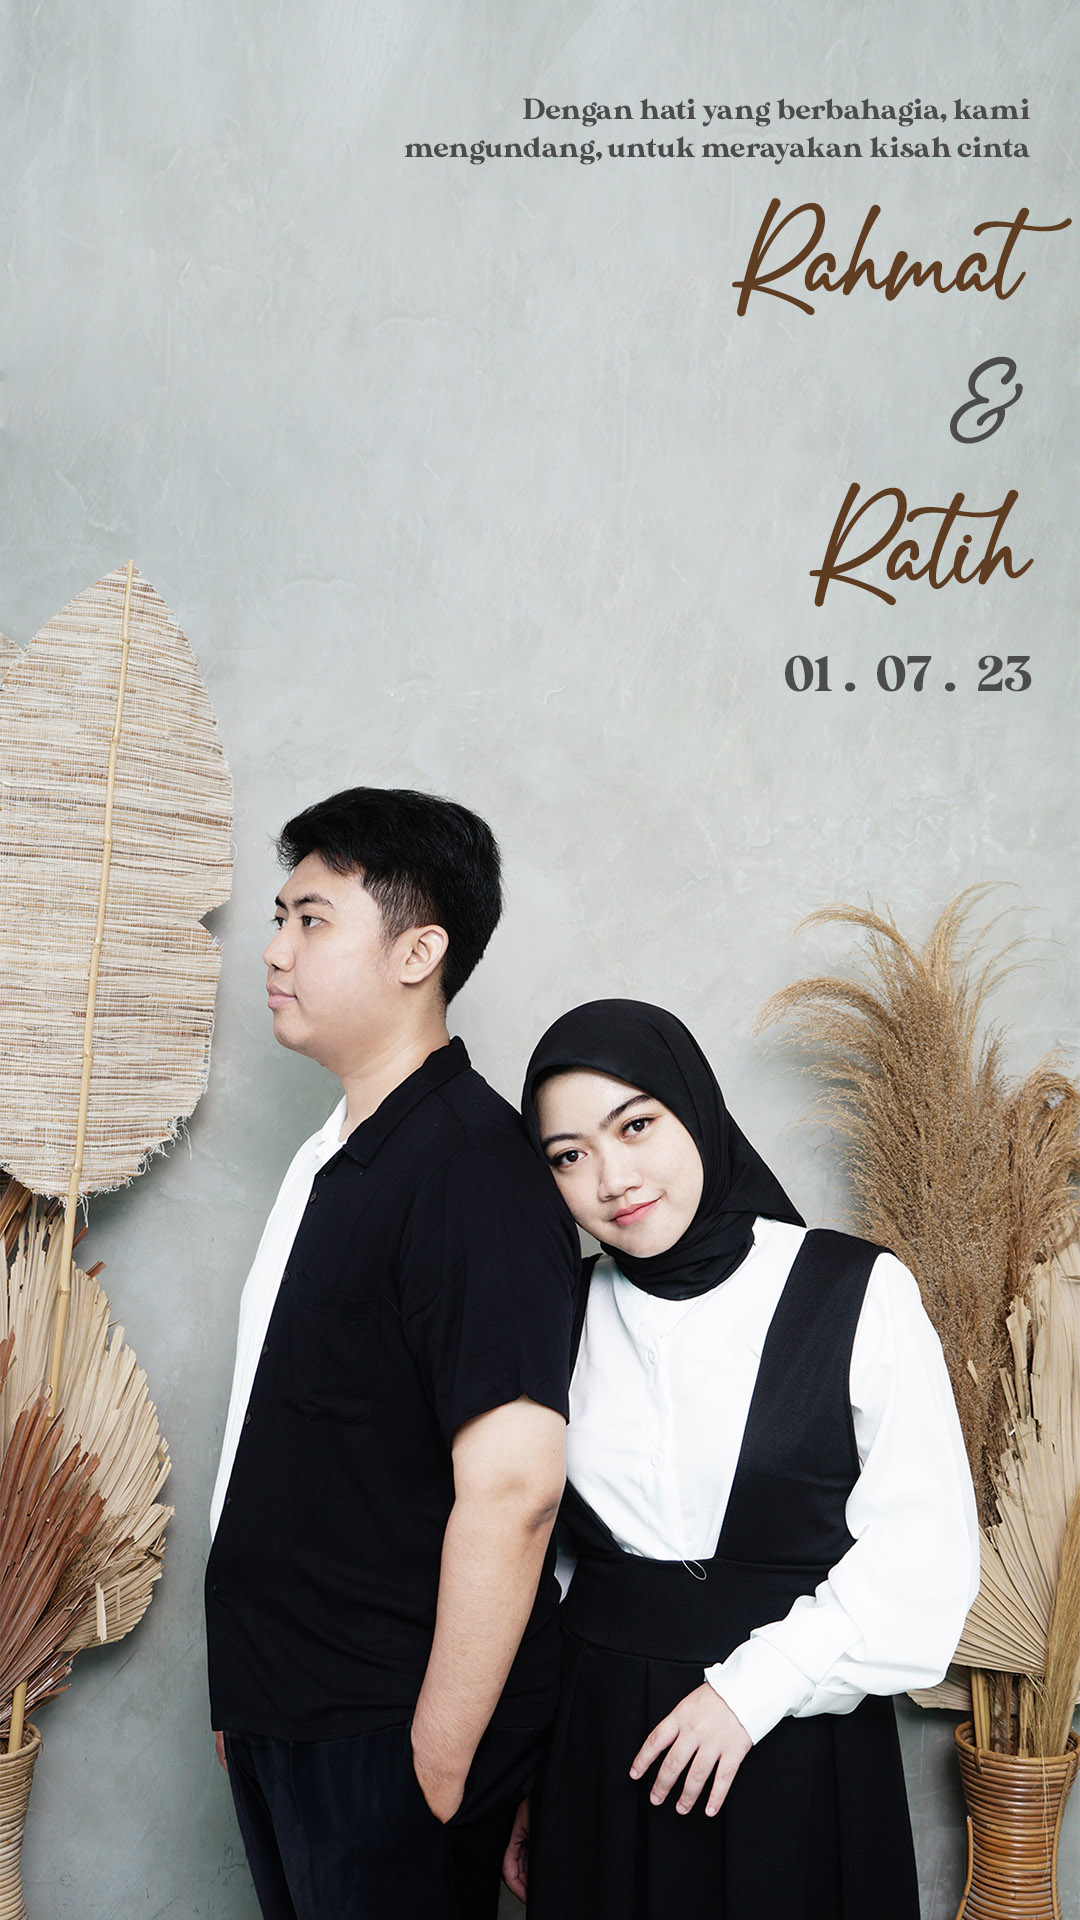
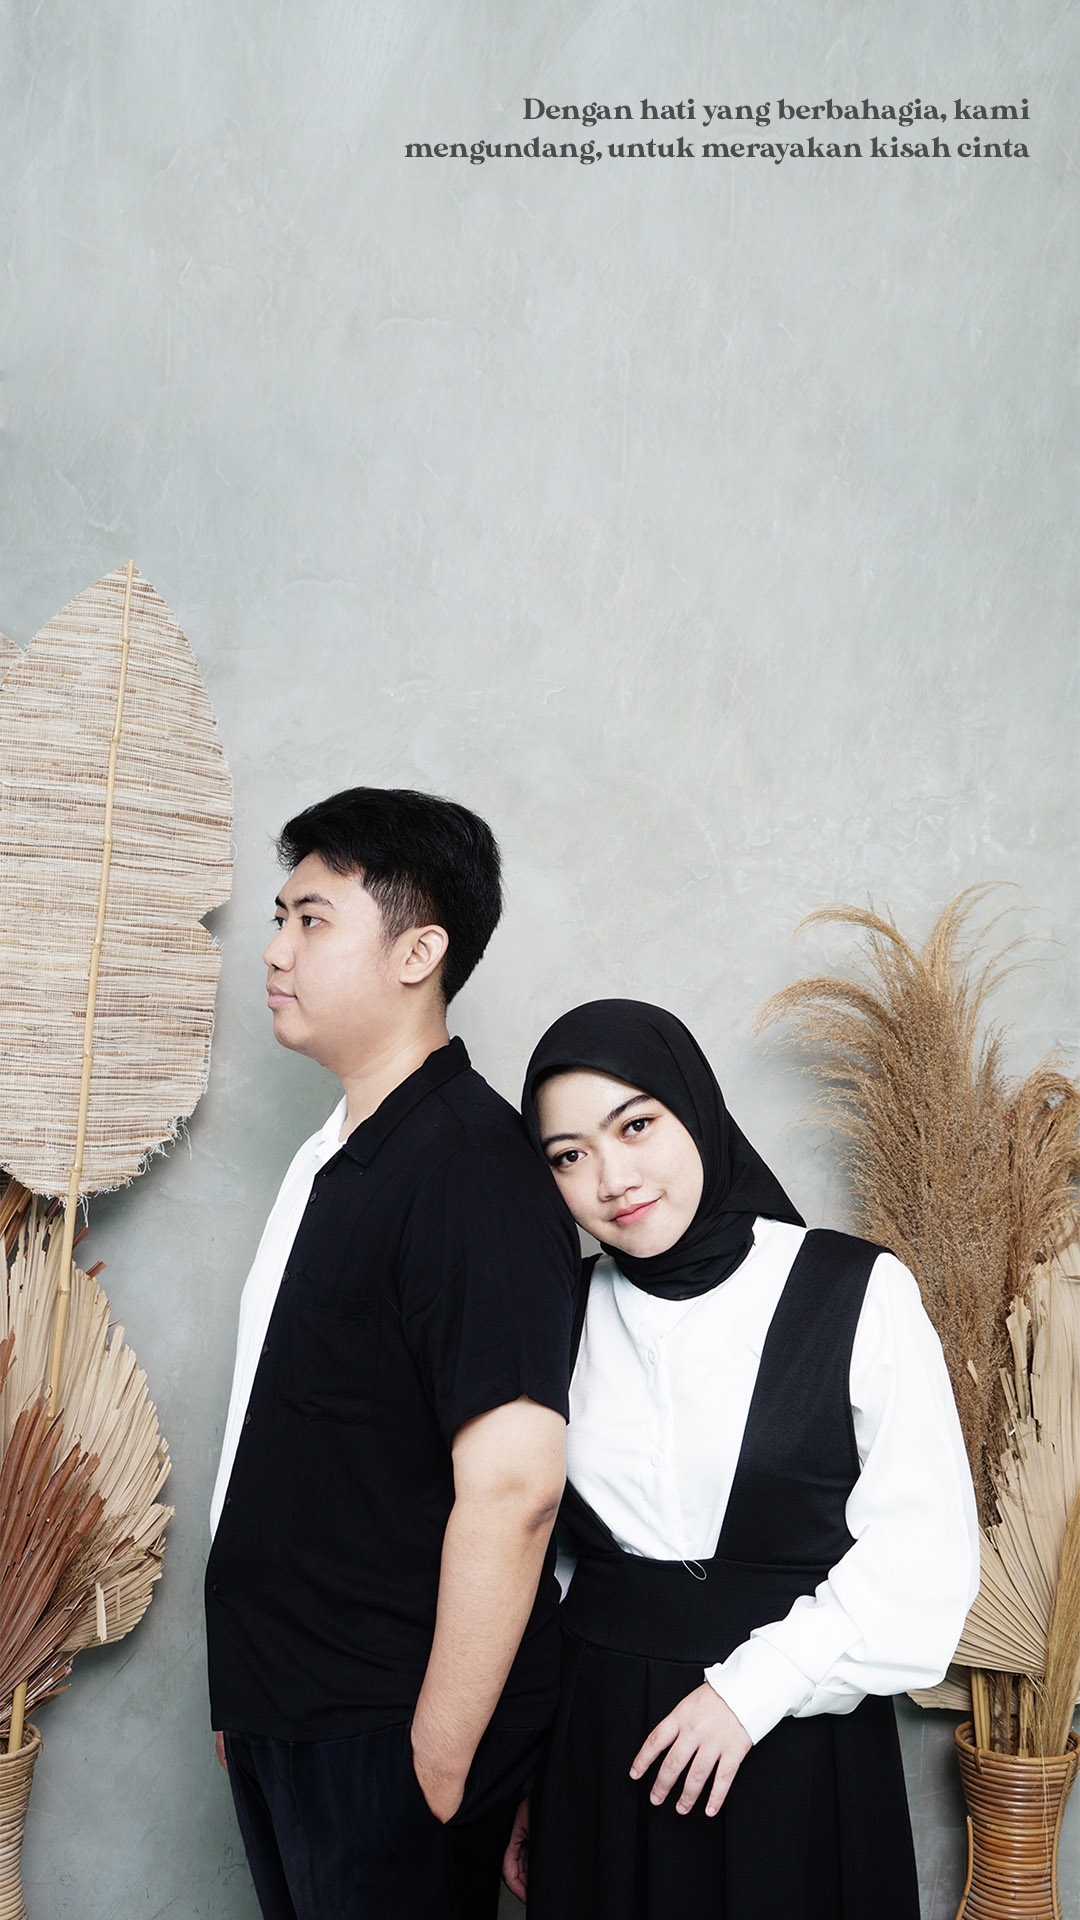
update

diff --git a/index.html b/index.html
@@ -13,7 +13,8 @@
     <link rel="preconnect" href="https://api.rahmatsumantri.my.id/" crossorigin="anonymous">
     <link rel="stylesheet" href="css/normalize.min.css">
     <link rel="stylesheet" href="css/bootstrap.min.css">
-    <link rel="stylesheet" href="fontawesome/css/all.min.css" integrity="sha256-HtsXJanqjKTc8vVQjO4YMhiqFoXkfBsjBWcX91T1jr8=" crossorigin="anonymous">
+    <link rel="stylesheet" href="fontawesome/css/all.min.css"
+        integrity="sha256-HtsXJanqjKTc8vVQjO4YMhiqFoXkfBsjBWcX91T1jr8=" crossorigin="anonymous">
     <link rel="stylesheet" href="css/app.min.css">
     <link rel="stylesheet" href="css/custom.css">
 </head>
@@ -54,16 +55,24 @@
         </ul>
     </nav>
 
-    <main class="scrollspy-example text-light" data-bs-spy="scroll" data-bs-target="#navbar-example2" data-bs-root-margin="0px 0px -40%" data-bs-smooth-scroll="true" tabindex="0">
+    <main class="scrollspy-example text-light" data-bs-spy="scroll" data-bs-target="#navbar-example2"
+        data-bs-root-margin="0px 0px -40%" data-bs-smooth-scroll="true" tabindex="0">
 
         <section class="container" id="home">
+            <div class="cropper shadow mx-auto">
+                <img src="assets/images/home.jpg" alt="bg">
+            </div>
         </section>
 
         <section id="mempelai">
+            <div class="cropper shadow mx-auto">
+                <img src="assets/images/mempelai.jpg" alt="bg">
+            </div>
         </section>
 
         <svg xmlns="http://www.w3.org/2000/svg" viewBox="0 0 1440 320">
-            <path fill="#111111" fill-opacity="1" d="M0,192L40,181.3C80,171,160,149,240,149.3C320,149,400,171,480,165.3C560,160,640,128,720,128C800,128,880,160,960,186.7C1040,213,1120,235,1200,218.7C1280,203,1360,149,1400,122.7L1440,96L1440,0L1400,0C1360,0,1280,0,1200,0C1120,0,1040,0,960,0C880,0,800,0,720,0C640,0,560,0,480,0C400,0,320,0,240,0C160,0,80,0,40,0L0,0Z">
+            <path fill="#111111" fill-opacity="1"
+                d="M0,192L40,181.3C80,171,160,149,240,149.3C320,149,400,171,480,165.3C560,160,640,128,720,128C800,128,880,160,960,186.7C1040,213,1120,235,1200,218.7C1280,203,1360,149,1400,122.7L1440,96L1440,0L1400,0C1360,0,1280,0,1200,0C1120,0,1040,0,960,0C880,0,800,0,720,0C640,0,560,0,480,0C400,0,320,0,240,0C160,0,80,0,40,0L0,0Z">
             </path>
         </svg>
 
@@ -80,7 +89,8 @@
         </div>
 
         <svg xmlns="http://www.w3.org/2000/svg" viewBox="0 0 1440 320">
-            <path fill="#111111" fill-opacity="1" d="M0,96L30,106.7C60,117,120,139,180,154.7C240,171,300,181,360,186.7C420,192,480,192,540,181.3C600,171,660,149,720,154.7C780,160,840,192,900,208C960,224,1020,224,1080,208C1140,192,1200,160,1260,138.7C1320,117,1380,107,1410,101.3L1440,96L1440,320L1410,320C1380,320,1320,320,1260,320C1200,320,1140,320,1080,320C1020,320,960,320,900,320C840,320,780,320,720,320C660,320,600,320,540,320C480,320,420,320,360,320C300,320,240,320,180,320C120,320,60,320,30,320L0,320Z">
+            <path fill="#111111" fill-opacity="1"
+                d="M0,96L30,106.7C60,117,120,139,180,154.7C240,171,300,181,360,186.7C420,192,480,192,540,181.3C600,171,660,149,720,154.7C780,160,840,192,900,208C960,224,1020,224,1080,208C1140,192,1200,160,1260,138.7C1320,117,1380,107,1410,101.3L1440,96L1440,320L1410,320C1380,320,1320,320,1260,320C1200,320,1140,320,1080,320C1020,320,960,320,900,320C840,320,780,320,720,320C660,320,600,320,540,320C480,320,420,320,360,320C300,320,240,320,180,320C120,320,60,320,30,320L0,320Z">
             </path>
         </svg>
 
@@ -91,16 +101,20 @@
                     <div class="border rounded-pill shadow py-2 px-4 mx-2 mb-4">
                         <div class="row justify-content-center" data-waktu="2023-07-01 00:00:00" id="tampilan-waktu">
                             <div class="col-3 p-1">
-                                <h2 class="d-inline m-0 p-0" id="hari">0</h2><small class="ms-1 me-0 my-0 p-0 d-inline">Hari</small>
+                                <h2 class="d-inline m-0 p-0" id="hari">0</h2><small
+                                    class="ms-1 me-0 my-0 p-0 d-inline">Hari</small>
                             </div>
                             <div class="col-3 p-1">
-                                <h2 class="d-inline m-0 p-0" id="jam">0</h2><small class="ms-1 me-0 my-0 p-0 d-inline">Jam</small>
+                                <h2 class="d-inline m-0 p-0" id="jam">0</h2><small
+                                    class="ms-1 me-0 my-0 p-0 d-inline">Jam</small>
                             </div>
                             <div class="col-3 p-1">
-                                <h2 class="d-inline m-0 p-0" id="menit">0</h2><small class="ms-1 me-0 my-0 p-0 d-inline">Menit</small>
+                                <h2 class="d-inline m-0 p-0" id="menit">0</h2><small
+                                    class="ms-1 me-0 my-0 p-0 d-inline">Menit</small>
                             </div>
                             <div class="col-3 p-1">
-                                <h2 class="d-inline m-0 p-0" id="detik">0</h2><small class="ms-1 me-0 my-0 p-0 d-inline">Detik</small>
+                                <h2 class="d-inline m-0 p-0" id="detik">0</h2><small
+                                    class="ms-1 me-0 my-0 p-0 d-inline">Detik</small>
                             </div>
                         </div>
                     </div>
@@ -123,12 +137,14 @@
                     </div>
 
                     <div class="py-2" data-aos="fade-up" data-aos-duration="1500">
-                        <a href="https://goo.gl/maps/52Y4V2k4xt5g5USMA" target="_blank" class="btn btn-outline-light btn-sm rounded-pill shadow-sm mb-2 px-3">
+                        <a href="https://goo.gl/maps/52Y4V2k4xt5g5USMA" target="_blank"
+                            class="btn btn-outline-light btn-sm rounded-pill shadow-sm mb-2 px-3">
                             <i class="fa-solid fa-map-location-dot me-2"></i>Lihat Google Maps
                         </a>
                         <p class="mb-0 mt-1 mx-1 pb-4" style="font-size: 0.9rem;">
                             <strong> SDN LOJI 2 KOTA BOGOR </strong> <br>
-                            Belakang komplek IPB, Jl. Meranti No.137, RT.04/RW.08, Loji, Kec. Bogor Barat, Jawa Barat 16117
+                            Belakang komplek IPB, Jl. Meranti No.137, RT.04/RW.08, Loji, Kec. Bogor Barat, Jawa Barat
+                            16117
                         </p>
                     </div>
                 </div>
@@ -138,13 +154,18 @@
         <section style="background-color: #111111 !important; margin-top: -5px; margin-bottom: -5px;" id="galeri">
             <div class="container pb-2 pt-4">
                 <div class="card-body border rounded-4 shadow p-3">
-                    <h1 class="font-estetik text-center py-3" data-aos="fade-down" data-aos-duration="1500" style="font-size: 2rem;">Galeri</h1>
+                    <h1 class="font-estetik text-center py-3" data-aos="fade-down" data-aos-duration="1500"
+                        style="font-size: 2rem;">Galeri</h1>
 
-                    <div id="carouselExampleIndicators" data-aos="fade-up" data-aos-duration="1500" class="carousel slide" data-bs-ride="carousel">
+                    <div id="carouselExampleIndicators" data-aos="fade-up" data-aos-duration="1500"
+                        class="carousel slide" data-bs-ride="carousel">
                         <div class="carousel-indicators">
-                            <button type="button" data-bs-target="#carouselExampleIndicators" data-bs-slide-to="0" class="active" aria-current="true" aria-label="Slide 1"></button>
-                            <button type="button" data-bs-target="#carouselExampleIndicators" data-bs-slide-to="1" aria-label="Slide 2"></button>
-                            <button type="button" data-bs-target="#carouselExampleIndicators" data-bs-slide-to="2" aria-label="Slide 3"></button>
+                            <button type="button" data-bs-target="#carouselExampleIndicators" data-bs-slide-to="0"
+                                class="active" aria-current="true" aria-label="Slide 1"></button>
+                            <button type="button" data-bs-target="#carouselExampleIndicators" data-bs-slide-to="1"
+                                aria-label="Slide 2"></button>
+                            <button type="button" data-bs-target="#carouselExampleIndicators" data-bs-slide-to="2"
+                                aria-label="Slide 3"></button>
                         </div>
 
                         <div class="carousel-inner rounded-4">
@@ -159,11 +180,13 @@
                             </div>
                         </div>
 
-                        <button class="carousel-control-prev" type="button" data-bs-target="#carouselExampleIndicators" data-bs-slide="prev">
+                        <button class="carousel-control-prev" type="button" data-bs-target="#carouselExampleIndicators"
+                            data-bs-slide="prev">
                             <span class="carousel-control-prev-icon" aria-hidden="true"></span>
                             <span class="visually-hidden">Previous</span>
                         </button>
-                        <button class="carousel-control-next" type="button" data-bs-target="#carouselExampleIndicators" data-bs-slide="next">
+                        <button class="carousel-control-next" type="button" data-bs-target="#carouselExampleIndicators"
+                            data-bs-slide="next">
                             <span class="carousel-control-next-icon" aria-hidden="true"></span>
                             <span class="visually-hidden">Next</span>
                         </button>
@@ -174,7 +197,8 @@
         </section>
 
         <svg xmlns="http://www.w3.org/2000/svg" viewBox="0 0 1440 320">
-            <path fill="#111111" fill-opacity="1" d="M0,96L30,106.7C60,117,120,139,180,154.7C240,171,300,181,360,186.7C420,192,480,192,540,181.3C600,171,660,149,720,154.7C780,160,840,192,900,208C960,224,1020,224,1080,208C1140,192,1200,160,1260,138.7C1320,117,1380,107,1410,101.3L1440,96L1440,0L1410,0C1380,0,1320,0,1260,0C1200,0,1140,0,1080,0C1020,0,960,0,900,0C840,0,780,0,720,0C660,0,600,0,540,0C480,0,420,0,360,0C300,0,240,0,180,0C120,0,60,0,30,0L0,0Z">
+            <path fill="#111111" fill-opacity="1"
+                d="M0,96L30,106.7C60,117,120,139,180,154.7C240,171,300,181,360,186.7C420,192,480,192,540,181.3C600,171,660,149,720,154.7C780,160,840,192,900,208C960,224,1020,224,1080,208C1140,192,1200,160,1260,138.7C1320,117,1380,107,1410,101.3L1440,96L1440,0L1410,0C1380,0,1320,0,1260,0C1200,0,1140,0,1080,0C1020,0,960,0,900,0C840,0,780,0,720,0C660,0,600,0,540,0C480,0,420,0,360,0C300,0,240,0,180,0C120,0,60,0,30,0L0,0Z">
             </path>
         </svg>
 
@@ -189,7 +213,8 @@
 
                     <div class="overflow-x-hidden">
                         <div class="row justify-content-center">
-                            <div class="col-12 card-body border rounded-4 shadow p-3 m-3" style="max-width: 25rem;" data-aos="fade-down" data-aos-duration="1500">
+                            <div class="col-12 card-body border rounded-4 shadow p-3 m-3" style="max-width: 25rem;"
+                                data-aos="fade-down" data-aos-duration="1500">
                                 <img src="assets/images/qr.webp" class="img-fluid rounded" width="300" alt="qr">
                                 <p class="card-text bg-white mt-4 rounded-4">
                                     <img src="assets/images/qr2.webp" class="img-fluid rounded" width="400" alt="bni">
@@ -221,13 +246,16 @@
                     </div>
                     <div class="mb-3">
                         <label for="formpesan" class="form-label">Ucapan & Doa</label>
-                        <textarea class="form-control shadow-sm" id="formpesan" rows="4" placeholder="Tulis Ucapan & Doa"></textarea>
+                        <textarea class="form-control shadow-sm" id="formpesan" rows="4"
+                            placeholder="Tulis Ucapan & Doa"></textarea>
                     </div>
                     <div class="d-flex">
-                        <button class="flex-fill btn btn-danger btn-sm rounded-4 shadow m-1" style="display: none;" onclick="resetForm()" id="batal">
+                        <button class="flex-fill btn btn-danger btn-sm rounded-4 shadow m-1" style="display: none;"
+                            onclick="resetForm()" id="batal">
                             Batal<i class="fa-solid fa-xmark ms-1"></i>
                         </button>
-                        <button class="flex-fill btn btn-primary btn-sm rounded-4 shadow m-1" style="display: none;" onclick="kirimBalasan()" id="kirimbalasan">
+                        <button class="flex-fill btn btn-primary btn-sm rounded-4 shadow m-1" style="display: none;"
+                            onclick="kirimBalasan()" id="kirimbalasan">
                             Kirim<i class="fa-solid fa-paper-plane ms-1"></i>
                         </button>
                     </div>
@@ -260,7 +288,8 @@
         </section>
 
         <svg xmlns="http://www.w3.org/2000/svg" viewBox="0 0 1440 320">
-            <path fill="#111111" fill-opacity="1" d="M0,224L34.3,234.7C68.6,245,137,267,206,266.7C274.3,267,343,245,411,234.7C480,224,549,224,617,213.3C685.7,203,754,181,823,197.3C891.4,213,960,267,1029,266.7C1097.1,267,1166,213,1234,192C1302.9,171,1371,181,1406,186.7L1440,192L1440,320L1405.7,320C1371.4,320,1303,320,1234,320C1165.7,320,1097,320,1029,320C960,320,891,320,823,320C754.3,320,686,320,617,320C548.6,320,480,320,411,320C342.9,320,274,320,206,320C137.1,320,69,320,34,320L0,320Z">
+            <path fill="#111111" fill-opacity="1"
+                d="M0,224L34.3,234.7C68.6,245,137,267,206,266.7C274.3,267,343,245,411,234.7C480,224,549,224,617,213.3C685.7,203,754,181,823,197.3C891.4,213,960,267,1029,266.7C1097.1,267,1166,213,1234,192C1302.9,171,1371,181,1406,186.7L1440,192L1440,320L1405.7,320C1371.4,320,1303,320,1234,320C1165.7,320,1097,320,1029,320C960,320,891,320,823,320C754.3,320,686,320,617,320C548.6,320,480,320,411,320C342.9,320,274,320,206,320C137.1,320,69,320,34,320L0,320Z">
             </path>
         </svg>
 
@@ -271,7 +300,8 @@
                         Merupakan suatu kehormatan dan kebahagiaan bagi kami apabila, Bapak / Ibu / Saudara / i.
                         berkenan hadir untuk memberikan do'a restunya kami ucapkan terimakasih.
                     </p>
-                    <h1 class="font-estetik" data-aos="fade-up" data-aos-duration="2000">Wassalamualaikum Warahmatullahi Wabarakatuh</h1>
+                    <h1 class="font-estetik" data-aos="fade-up" data-aos-duration="2000">Wassalamualaikum Warahmatullahi
+                        Wabarakatuh</h1>
                     <hr class="mt-3 mb-2">
                     <div class="row align-items-center justify-content-between flex-column flex-sm-row">
                         <div class="col-auto">
@@ -285,7 +315,8 @@
         </div>
     </main>
 
-    <button type="button" id="tombol-musik" style="display: none;" class="btn btn-light btn-sm rounded-circle btn-music" onclick="play(this)" data-status="true" data-url="assets/music/sound.mp3">
+    <button type="button" id="tombol-musik" style="display: none;" class="btn btn-light btn-sm rounded-circle btn-music"
+        onclick="play(this)" data-status="true" data-url="assets/music/sound.mp3">
         <i class="fa-solid fa-circle-pause"></i>
     </button>
 
@@ -299,7 +330,8 @@
                         <div id="namatamu"></div>
                         <div class="cropper mb-4 mx-auto">
                         </div>
-                        <button type="button" class="btn btn-light shadow rounded-4 mt-4" data-bs-toggle="modal" data-bs-target="#exampleModal" onclick="buka()">
+                        <button type="button" class="btn btn-light shadow rounded-4 mt-4" data-bs-toggle="modal"
+                            data-bs-target="#exampleModal" onclick="buka()">
                             <i class="fa-solid fa-envelope-open me-2"></i>Buka Undangan
                         </button>
                     </div>
@@ -308,8 +340,10 @@
         </div>
     </div>
 
-    <script src="https://cdn.jsdelivr.net/npm/bootstrap@5.3.0-alpha3/dist/js/bootstrap.bundle.min.js" integrity="sha256-6o/gIaSs5PZ4b+zEGPcLZY/C3ALRNuj+XGq2tipG1dA=" crossorigin="anonymous"></script>
-    <script src="https://cdn.jsdelivr.net/npm/aos@2.3.4/dist/aos.js" integrity="sha256-pQBbLkFHcP1cy0C8IhoSdxlm0CtcH5yJ2ki9jjgR03c=" crossorigin="anonymous"></script>
+    <script src="https://cdn.jsdelivr.net/npm/bootstrap@5.3.0-alpha3/dist/js/bootstrap.bundle.min.js"
+        integrity="sha256-6o/gIaSs5PZ4b+zEGPcLZY/C3ALRNuj+XGq2tipG1dA=" crossorigin="anonymous"></script>
+    <script src="https://cdn.jsdelivr.net/npm/aos@2.3.4/dist/aos.js"
+        integrity="sha256-pQBbLkFHcP1cy0C8IhoSdxlm0CtcH5yJ2ki9jjgR03c=" crossorigin="anonymous"></script>
     <script src="js/app.js"></script>
 </body>
 

diff --git a/css/app.min.css b/css/app.min.css
@@ -1,1 +1,68 @@
-::-webkit-scrollbar{width:.875rem}::-webkit-scrollbar-button{display:none}::-webkit-scrollbar-track{background-color:transparent}::-webkit-scrollbar-thumb{border-radius:.5rem;border:.25rem solid transparent;background-clip:content-box;background-color:#bbb}::-webkit-scrollbar-thumb:hover{background-color:#aaa}html{scroll-behavior:smooth}body{overflow:overlay;font-family:sunflower;padding:0!important}.cropper{width:14rem;height:14rem;position:relative;overflow:hidden;border-radius:50%}.cropper>img{display:inline;margin:0 auto;height:auto;width:100%}.btn-music{position:fixed;bottom:9vh;right:2vh;z-index:1055}.loading{position:fixed;top:0;left:0;width:100%;height:100%;background-color:#212529;z-index:1055!important}.card-body{overflow-wrap:break-word!important}
+*::-webkit-scrollbar {
+    width: 0.875rem;
+}
+
+*::-webkit-scrollbar-button {
+    display: none;
+}
+
+*::-webkit-scrollbar-track {
+    background-color: transparent;
+}
+
+*::-webkit-scrollbar-thumb {
+    border-radius: 0.5rem;
+    border: 0.25rem solid transparent;
+    background-clip: content-box;
+    background-color: #bbbbbb;
+}
+
+*::-webkit-scrollbar-thumb:hover {
+    background-color: #aaaaaa;
+}
+
+html {
+    scroll-behavior: smooth;
+}
+
+body {
+    overflow: overlay;
+    font-family: 'sunflower';
+    padding: 0 !important;
+}
+
+.cropper {
+    /* width: 14rem; */
+    /* height: 14rem; */
+    position: relative;
+    overflow: hidden;
+    /* border-radius: 50%; */
+}
+
+.cropper>img {
+    display: inline;
+    margin: 0 auto;
+    height: auto;
+    width: 100%;
+}
+
+.btn-music {
+    position: fixed;
+    bottom: 9vh;
+    right: 2vh;
+    z-index: 1055;
+}
+
+.loading {
+    position: fixed;
+    top: 0;
+    left: 0;
+    width: 100%;
+    height: 100%;
+    background-color: #212529;
+    z-index: 1055 !important;
+}
+
+.card-body {
+    overflow-wrap: break-word !important;
+}

diff --git a/css/custom.css b/css/custom.css
@@ -20,25 +20,11 @@
     }
 
     #home {
-        background-image: url('../assets/images/home.jpg');
-        -webkit-background-size: cover;
-        -moz-background-size: cover;
-        -o-background-size: cover;
-        background-size: cover;
-        background-repeat: no-repeat;
-        background-position: center;
-        height: 658px;
+        --bs-gutter-x: 0;
     }
 
     #mempelai {
-        background-image: url('../assets/images/mempelai.jpg');
-        -webkit-background-size: cover;
-        -moz-background-size: cover;
-        -o-background-size: cover;
-        background-size: cover;
-        background-repeat: no-repeat;
-        background-position: center;
-        height: 658px;
+        --bs-gutter-x: 0;
     }
 }
 

diff --git a/css/app.css b/css/app.css
@@ -27,8 +27,13 @@ html {
 
 body {
     overflow: overlay;
-    font-family: 'sunflower';
+    font-family: 'Josefin Sans', sans-serif;
     padding: 0 !important;
+}
+
+.font-estetik {
+    font-family: 'Sacramento', cursive !important;
+    color: #ffffff !important;
 }
 
 .cropper {
